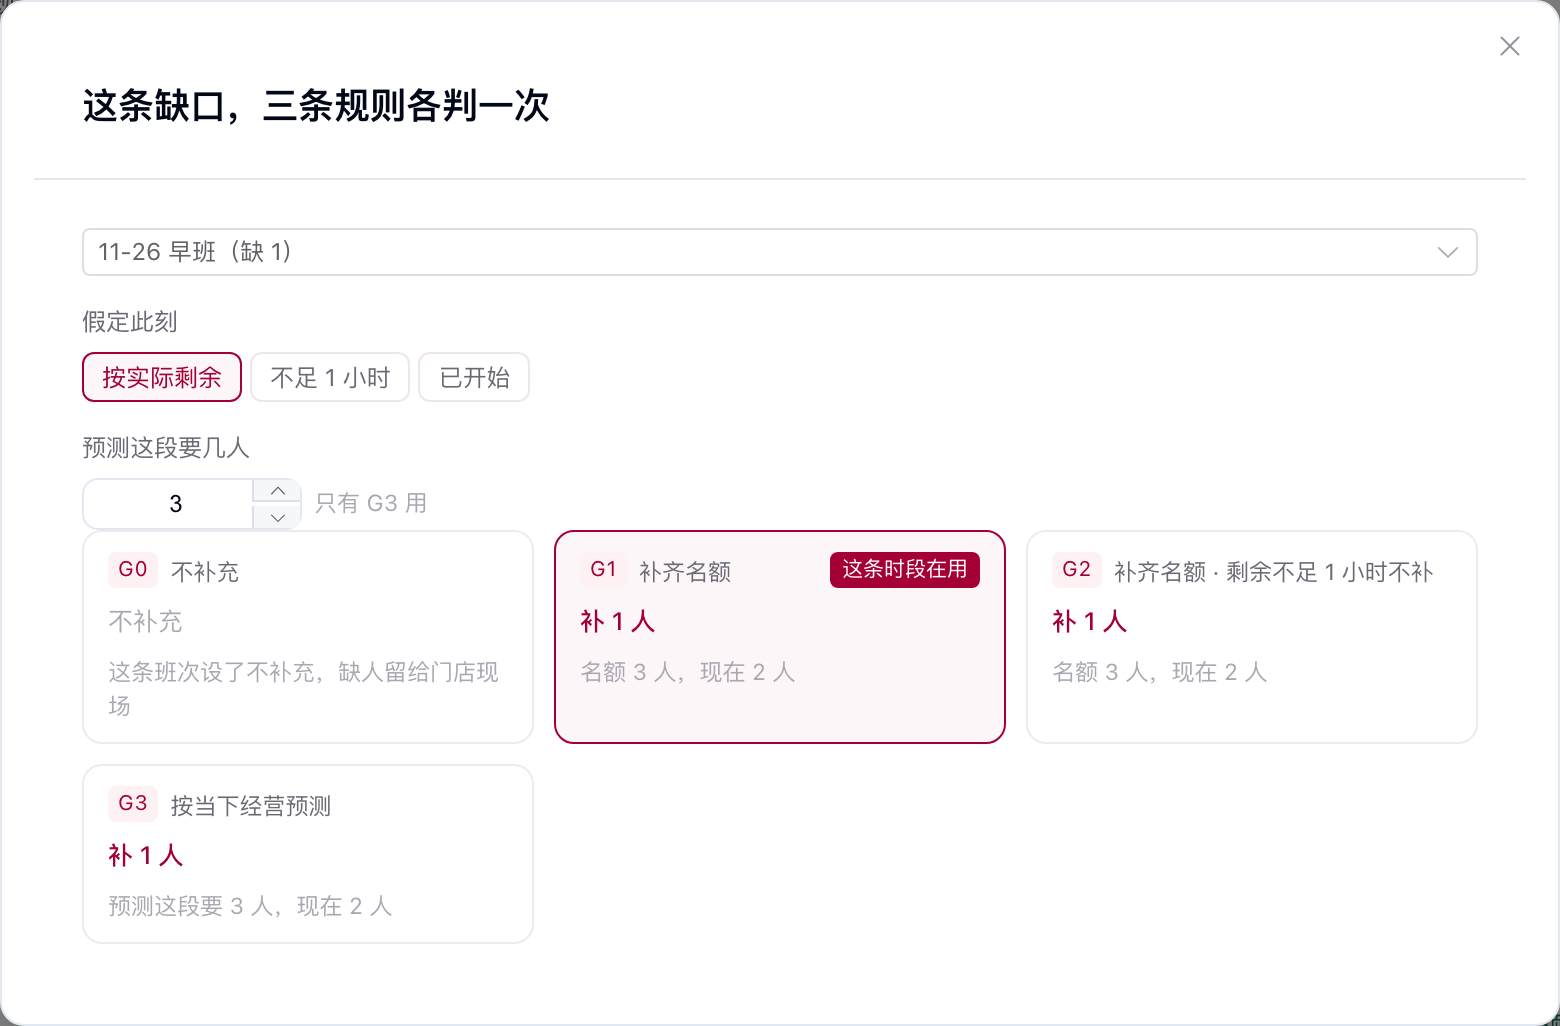
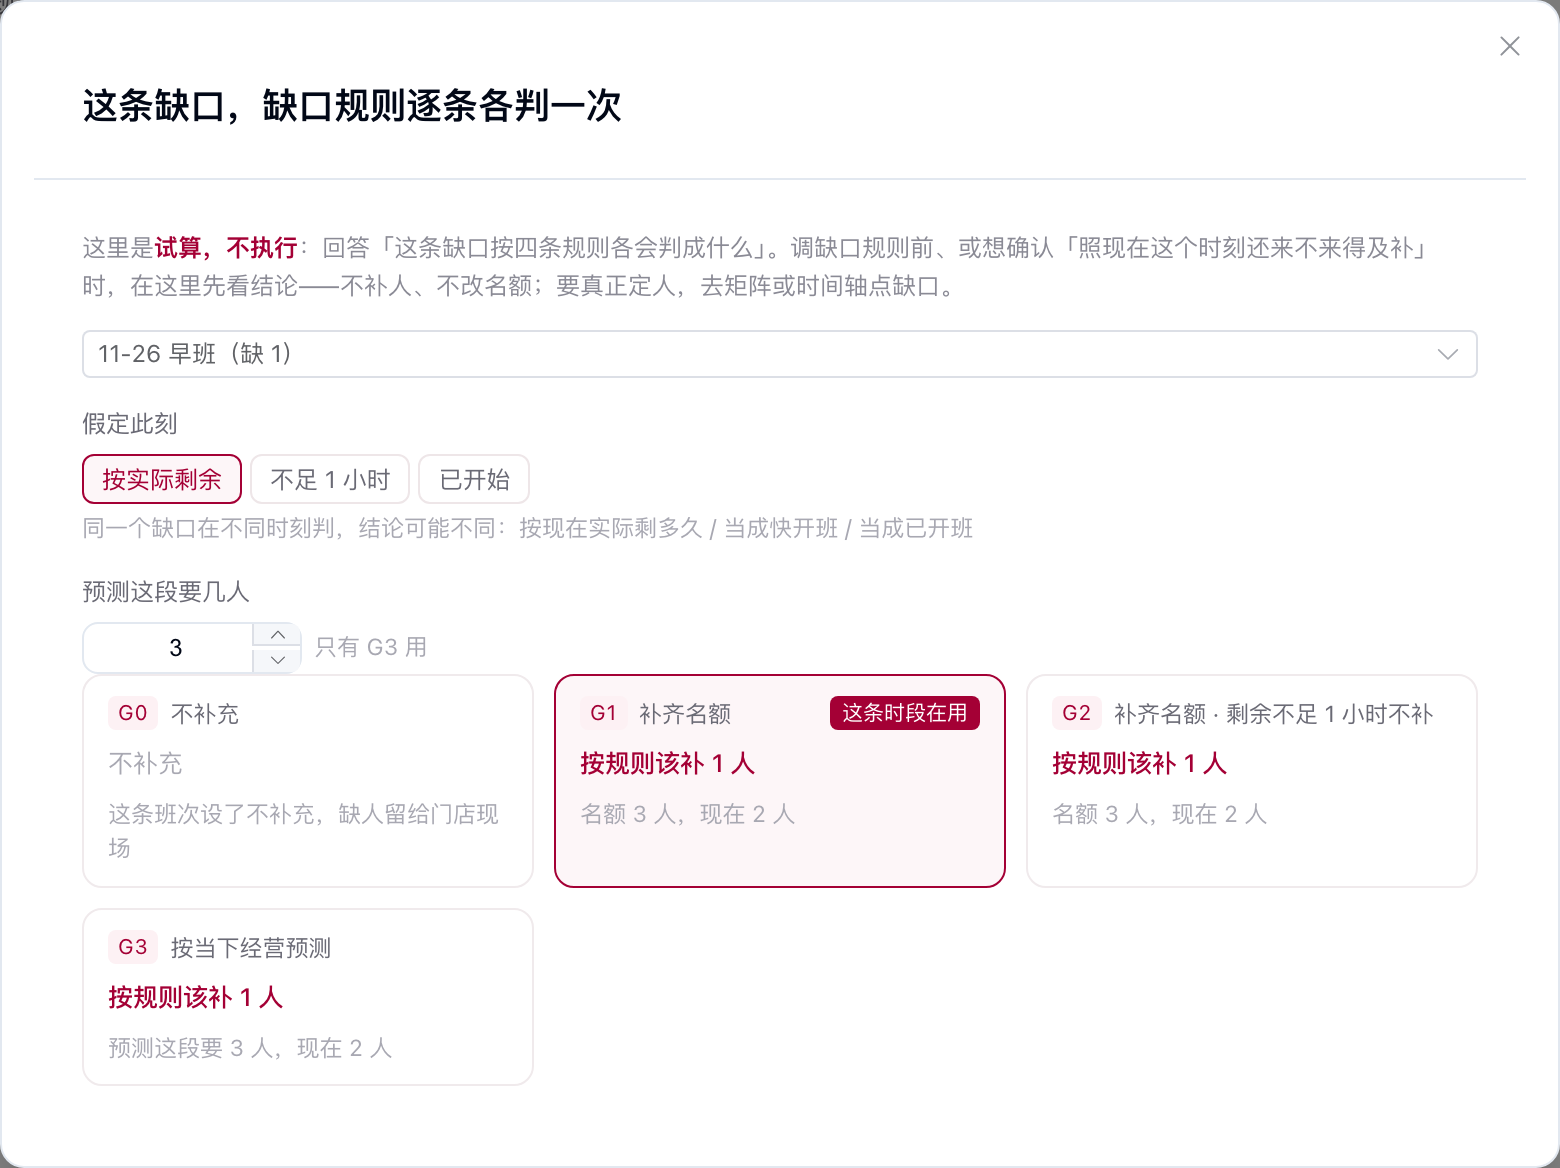
v5 缺口结论与试算弹层：把「判定」和「执行」在文案上分开
- evalGap5 结论「补 N 人」→「按规则该补 N 人」：是规则判定不是动作，避免看着像点下去就补人
- 试算弹层顶部加说明：这是试算、不执行，回答四条规则各判成什么；什么时候用（调规则前 / 确认来不来得及补）+ 要定人去矩阵或时间轴点缺口
- 「假定此刻」补灰字说明：同一缺口不同时刻判结论可能不同（实际剩余 / 快开班 / 已开班）
- 缺口视图 note 补一句：结论列是判出来的该补几人，不是已经补上；页头提示「预演四条规则各判一次」
- 文档 6.4.3 结论行同步：试算只预判不补人不改名额，定人在矩阵/时间轴，补位也可能由求值自动完成；v5-gap-trial / v5-gapview 重截

diff --git a/src/views/ScheduleV5.vue b/src/views/ScheduleV5.vue
@@ -663,7 +663,7 @@
 
           <!-- 缺口：只看排班确定后的缺口（事件拿走一段 / 临时加位没人接）；点一行看三条规则各判成什么 -->
           <template v-else>
-            <p class="gap-view-note">这里只看<b>排班确定之后因事件缺人</b>的缺口，按这条时段自己选的规则判；轮里名额没人拿满不算缺口，直接在矩阵或时间轴上定人。</p>
+            <p class="gap-view-note">这里只看<b>排班确定之后因事件缺人</b>的缺口，按这条时段自己选的规则判；轮里名额没人拿满不算缺口，直接在矩阵或时间轴上定人。结论列是规则判出来的「该补几人」，不是已经补上。</p>
             <table class="data-table">
               <thead>
                 <tr><th style="width: 130px;">来路</th><th style="width: 175px;">时段</th><th style="width: 70px;">日期</th><th style="width: 95px;">还剩</th><th style="width: 80px;">缺几个</th><th style="width: 150px;">规则</th><th>结论</th></tr>
@@ -1015,6 +1015,7 @@
 
     <!-- 试算：同一条缺口，三条规则各判一次——不占页面，点缺口才出来 -->
     <el-dialog v-model="trialDlg" title="这条缺口，缺口规则逐条各判一次" width="780px">
+      <p class="gt-note">这里是<b>试算，不执行</b>：回答「这条缺口按四条规则各会判成什么」。调缺口规则前、或想确认「照现在这个时刻还来不来得及补」时，在这里先看结论——不补人、不改名额；要真正定人，去矩阵或时间轴点缺口。</p>
       <div class="gt-left">
         <el-select v-model="trialKey" size="small" placeholder="选一条缺口" style="width: 100%;">
           <el-option v-for="g in gapRows" :key="g.slotId + '|' + g.date" :label="`${g.date.slice(5)} ${g.slot.name}（缺 ${g.quota}）`" :value="g.slotId + '|' + g.date" />
@@ -1026,6 +1027,7 @@
             <button :class="{ on: trialWhen === 'soon' }" @click="trialWhen = 'soon'">不足 1 小时</button>
             <button :class="{ on: trialWhen === 'now' }" @click="trialWhen = 'now'">已开始</button>
           </div>
+          <span class="gt-hint">同一个缺口在不同时刻判，结论可能不同：按现在实际剩多久 / 当成快开班 / 当成已开班</span>
         </div>
         <div class="gt-field">
           <label>预测这段要几人</label>
@@ -1143,7 +1145,7 @@ const runViewHint = computed(() => runView.value === 'grid'
   ? '格子里是当前占位的人；点空格直接定人'
   : runView.value === 'axis'
     ? '这一天每个时段上是谁、几点到几点；空格缺口点开就是定人'
-    : '这一轮缺哪几段、还剩多久、按这条时段自己选的规则判成什么；点一行看三条规则各判一次')
+    : '这一轮缺哪几段、还剩多久、按这条时段自己选的规则判成什么；点一行预演四条规则各判一次')
 const axisDay = ref('')
 watch(() => [selSpace.value, shownRound.value?.id], () => {
   axisDay.value = runDates.value.includes(v5.today) ? v5.today : (runDates.value[0] || '')
@@ -2489,6 +2491,8 @@ tr.hl td { background: #fdf3e6 !important; }
 .gr-note { font-size: 12px; color: #8a8a95; line-height: 1.55; margin-top: 7px; }
 .src-tag { font-size: 11.5px; color: #6a6a75; background: #f6f4f5; border-radius: 4px; padding: 2px 7px; white-space: nowrap; }
 .vd { font-size: 12.5px; font-weight: 500; }
+.gt-note { font-size: 12px; color: #8a8a95; margin: 0 0 12px; line-height: 1.6; }
+.gt-note b { color: #a40035; }
 .vd.supplement { color: #a40035; }
 .vd.missed { color: #8a8a95; }
 .vd.none { color: #2f7d5c; }

diff --git a/src/mock/scheduleV5.js b/src/mock/scheduleV5.js
@@ -840,13 +840,13 @@ export function evalGap5(state, slotId, date, rule, opts = {}) {
   if (rule.kind === 'forecast') {
     const need = Math.max(0, forecast - occ)
     if (need === 0) return { need: 0, action: 'none', text: '按预测不用补', why: `预测这段要 ${forecast} 人，现在 ${occ} 人` }
-    return { need, action: 'supplement', text: `补 ${need} 人`, why: `预测这段要 ${forecast} 人，现在 ${occ} 人` }
+    return { need, action: 'supplement', text: `按规则该补 ${need} 人`, why: `预测这段要 ${forecast} 人，现在 ${occ} 人` }
   }
   if (remain === 0) return { need: quota, action: 'missed', text: '补不上，记成没补上', why: '这段已经开始了' }
   if (rule.minGap && remain < rule.minGap) {
     return { need: quota, action: 'missed', text: '补不上，记成没补上', why: `还剩 ${fmtRemain5(remain)}，不到 ${rule.minGap} 分钟` }
   }
-  return { need: quota, action: 'supplement', text: `补 ${quota} 人`, why: `名额 ${n} 人，现在 ${occ} 人` }
+  return { need: quota, action: 'supplement', text: `按规则该补 ${quota} 人`, why: `名额 ${n} 人，现在 ${occ} 人` }
 }
 
 /*

diff --git a/src/views/hr-schedule/sections/HS64Facts.vue b/src/views/hr-schedule/sections/HS64Facts.vue
@@ -101,7 +101,7 @@
           <tr><td><strong>入口</strong></td><td>「轮与结果」缺口视图点一行，弹「这条缺口，缺口规则逐条各判一次」</td></tr>
           <tr><td><strong>假定此刻</strong></td><td>按实际剩余 / 不足 1 小时 / 已开始——同一个缺口在不同时刻判，结论可能不同</td></tr>
           <tr><td><strong>预测人数</strong></td><td>只有 G3 用：假定这段现在要几人</td></tr>
-          <tr><td><strong>结论</strong></td><td>每条规则卡各给一个结论（补几人 / 不补 + 原因），红色标出这条时段实际在用的规则</td></tr>
+          <tr><td><strong>结论</strong></td><td>每条规则卡各给一个判定（按规则该补几人 / 不补 + 原因），红色标出这条时段实际在用的规则；<strong>试算只预判，不补人也不改名额</strong>——定人在矩阵或时间轴点缺口，补位也可能由求值自动完成</td></tr>
         </tbody>
       </table>
       <div class="note">
